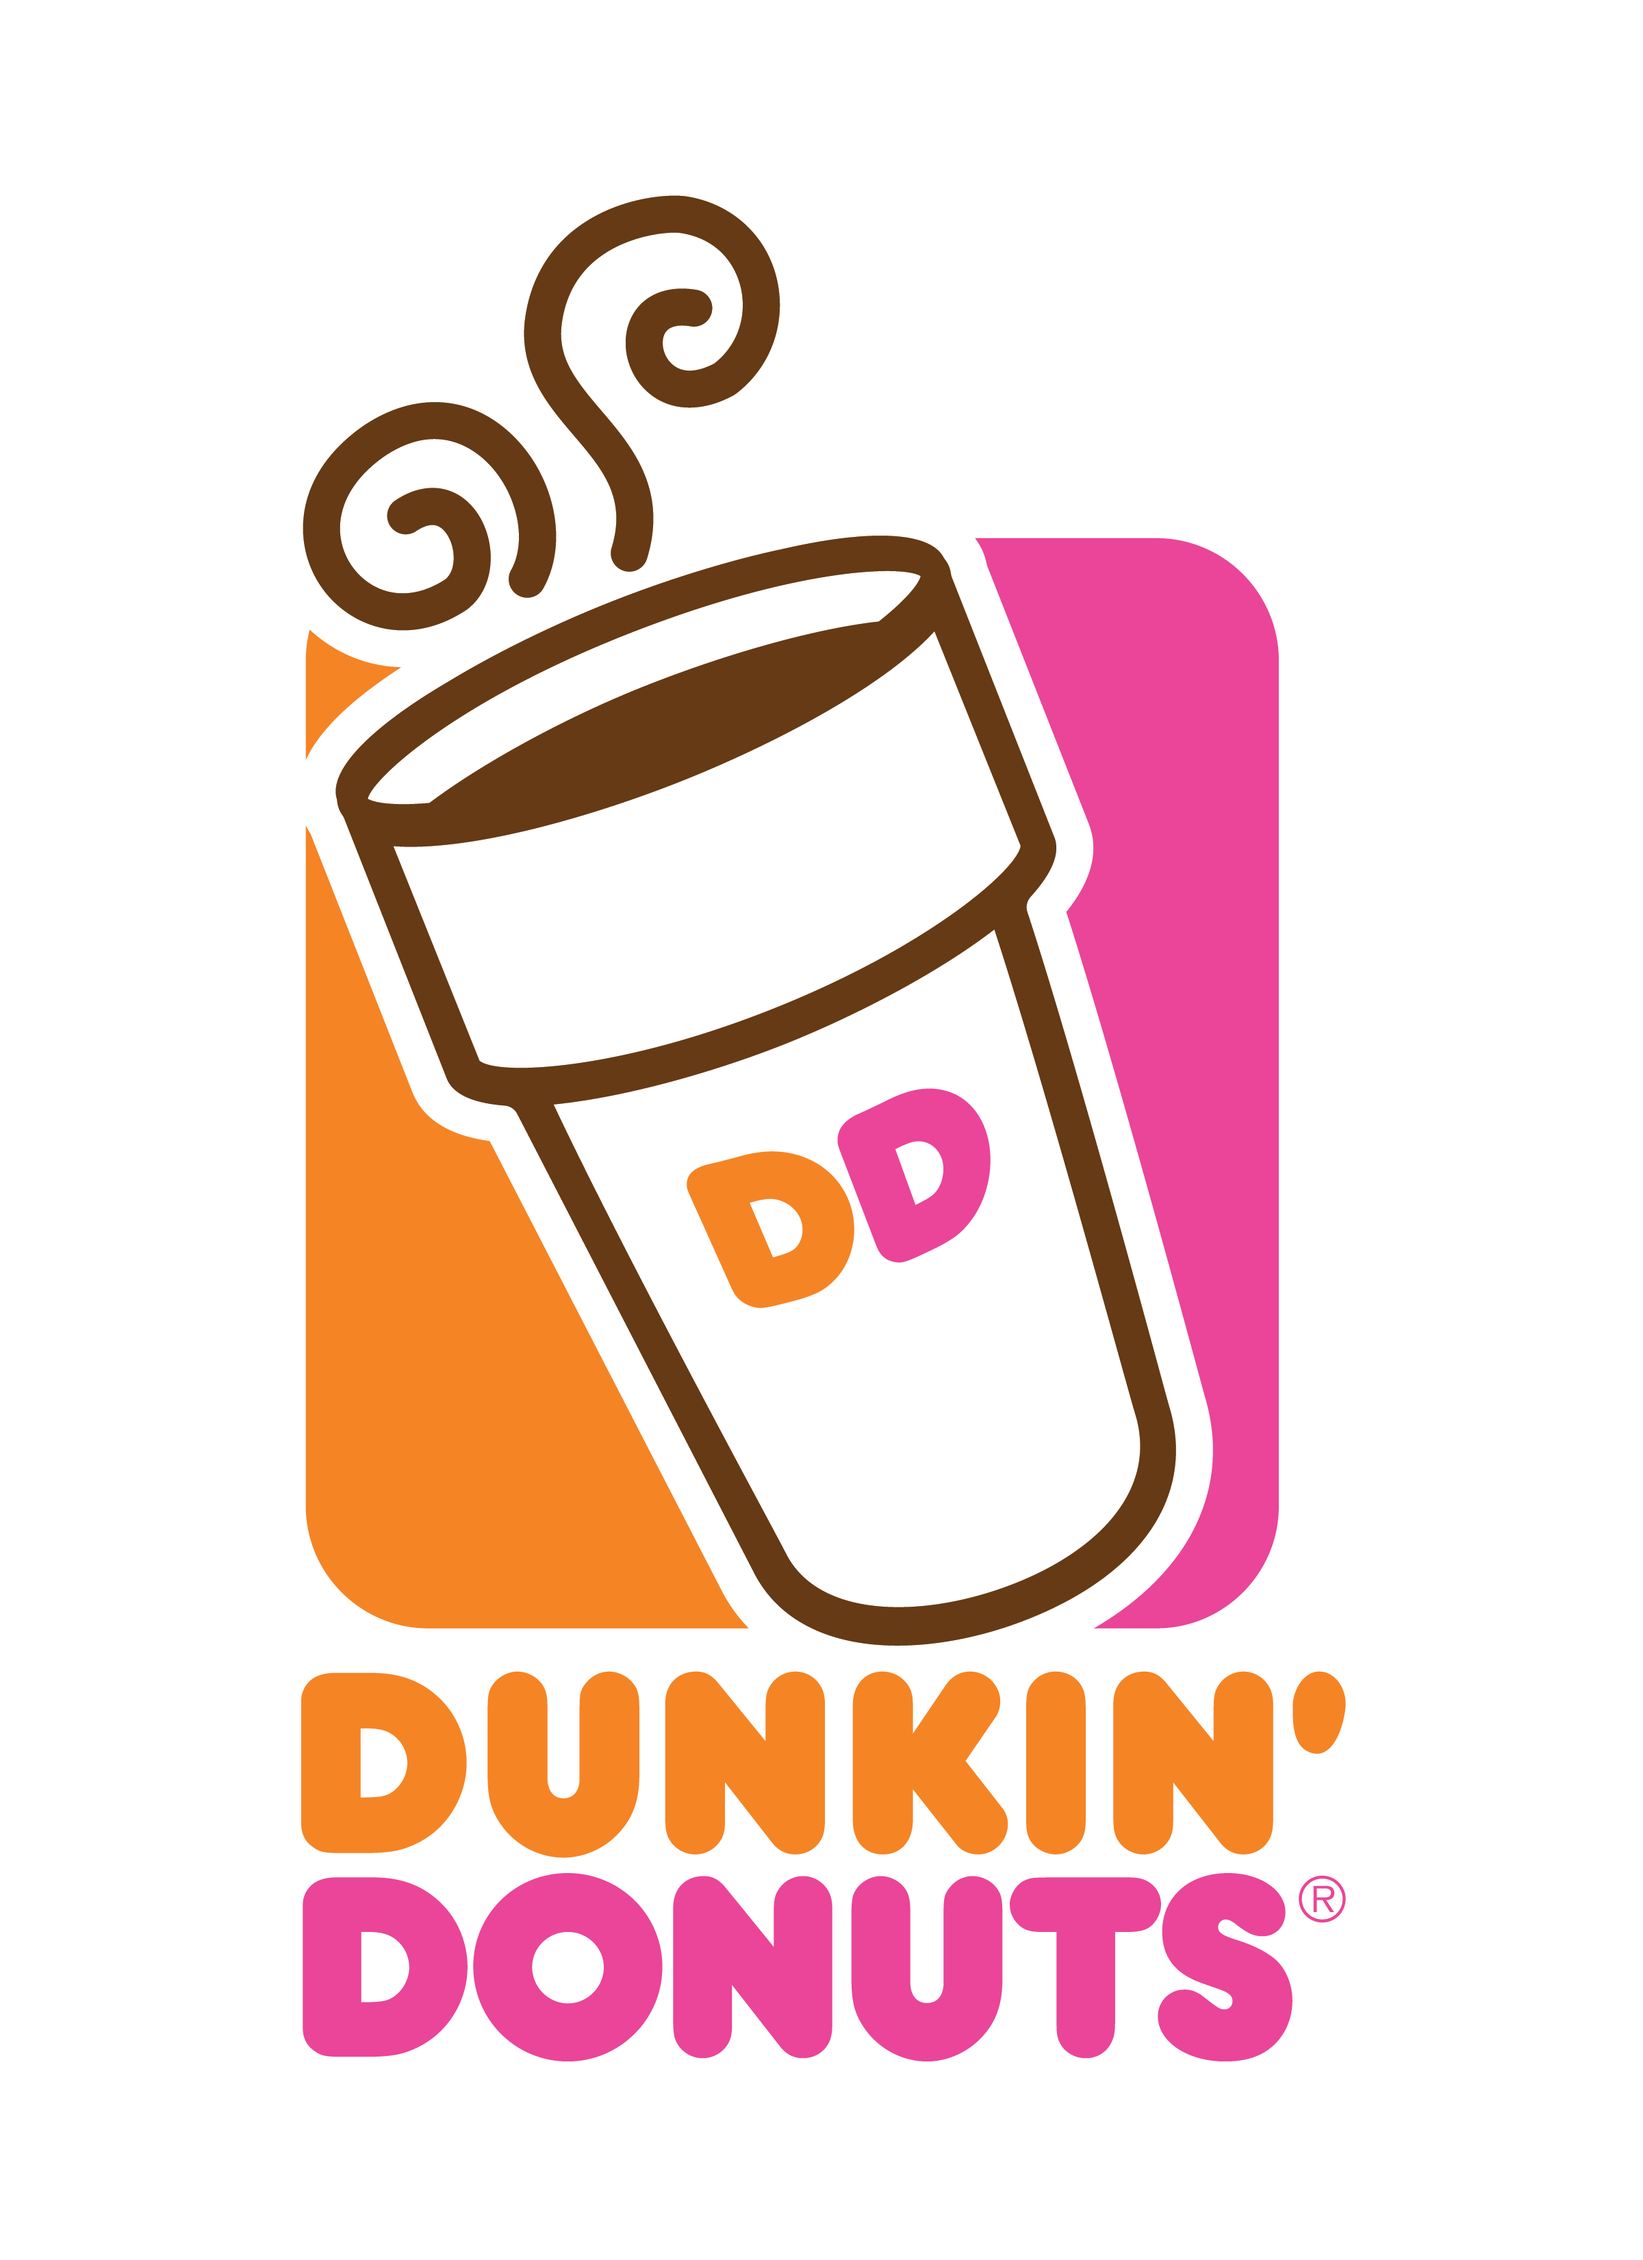
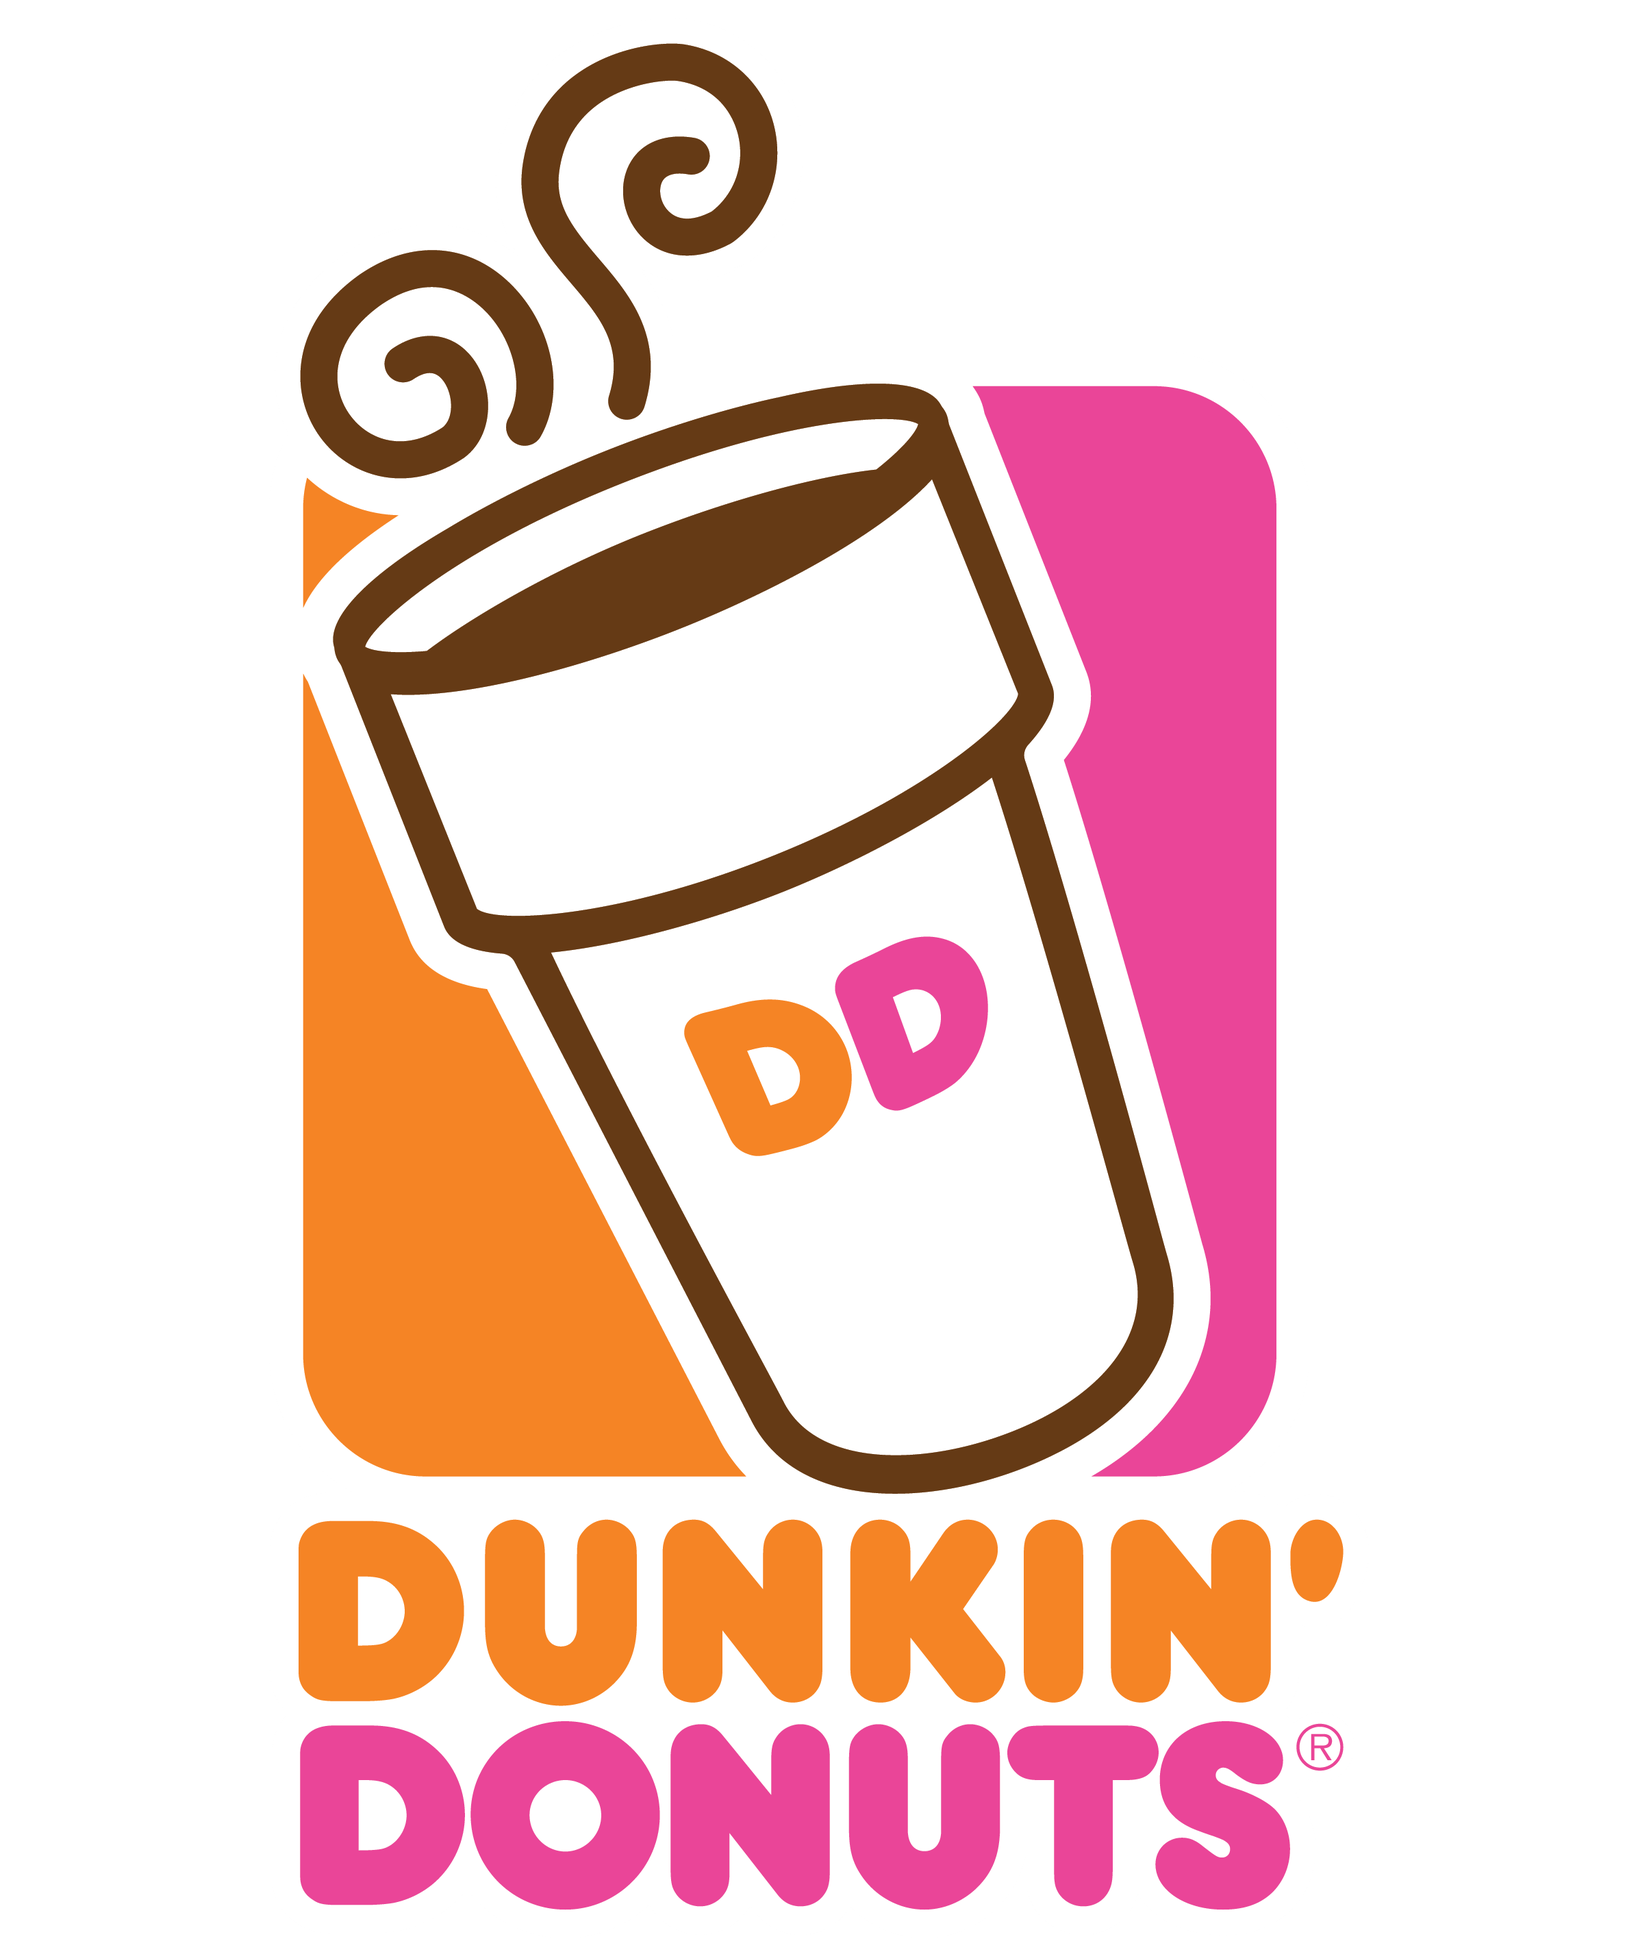
update restaurant menu look

Changed region(s): [[0.1547, 0.4684, 0.8353, 0.9993], [0.1856, 0.0, 0.8043, 0.4684]]

diff --git a/src/frontendMain/kotlin/com/chargerfuel/pages/Restaurants.kt b/src/frontendMain/kotlin/com/chargerfuel/pages/Restaurants.kt
@@ -1,6 +1,7 @@
 package com.chargerfuel.pages
 
 import com.chargerfuel.util.base
+import com.chargerfuel.util.center
 import com.chargerfuel.util.toolbar
 import io.kvision.core.*
 import io.kvision.html.Align
@@ -18,9 +19,11 @@ object Restaurants : Webpage("test") {
         toolbar()
         base {
             vPanel(alignItems = AlignItems.CENTER) {
+                center()
+                io.kvision.require("css/scrollbars.css")
                 position = Position.ABSOLUTE
                 colorName = Col.BLACK
-                width = 80.perc
+                width = 90.perc
                 height = 90.perc
                 overflowX = Overflow.HIDDEN
                 overflowY = Overflow.SCROLL
@@ -49,8 +52,8 @@ object Restaurants : Webpage("test") {
                         height = 65.perc
                     }, 2, 2)
                     add(image(io.kvision.require("img/dunkin.png") as? String, "Dunkin") {
-                        width = 85.perc
-                        height = 85.perc
+                        width = 75.perc
+                        height = 75.perc
                     }, 1, 3)
                     add(image(io.kvision.require("img/charger_brew.png") as? String, "Charger Brew") {
                         width = 75.perc
